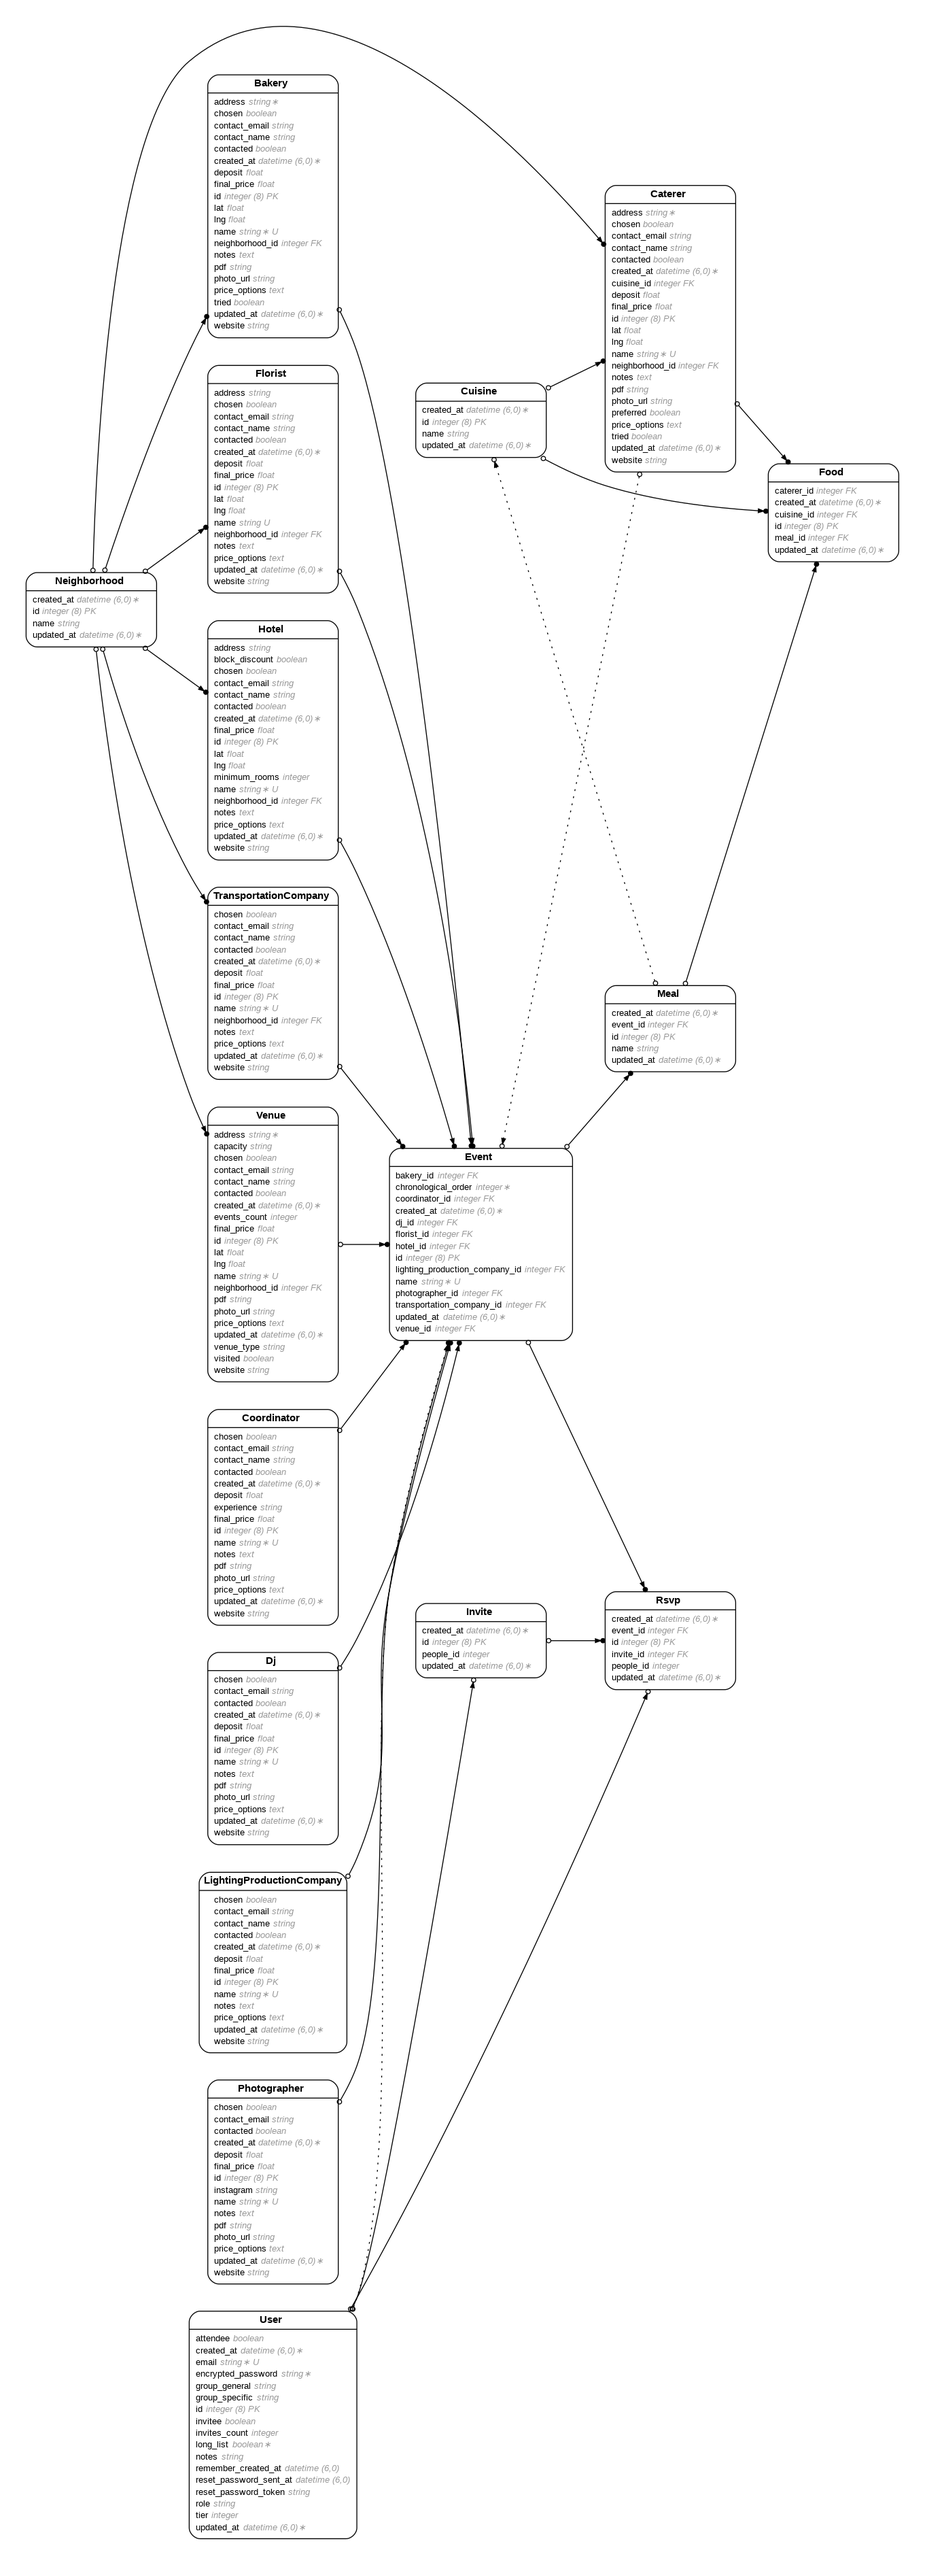
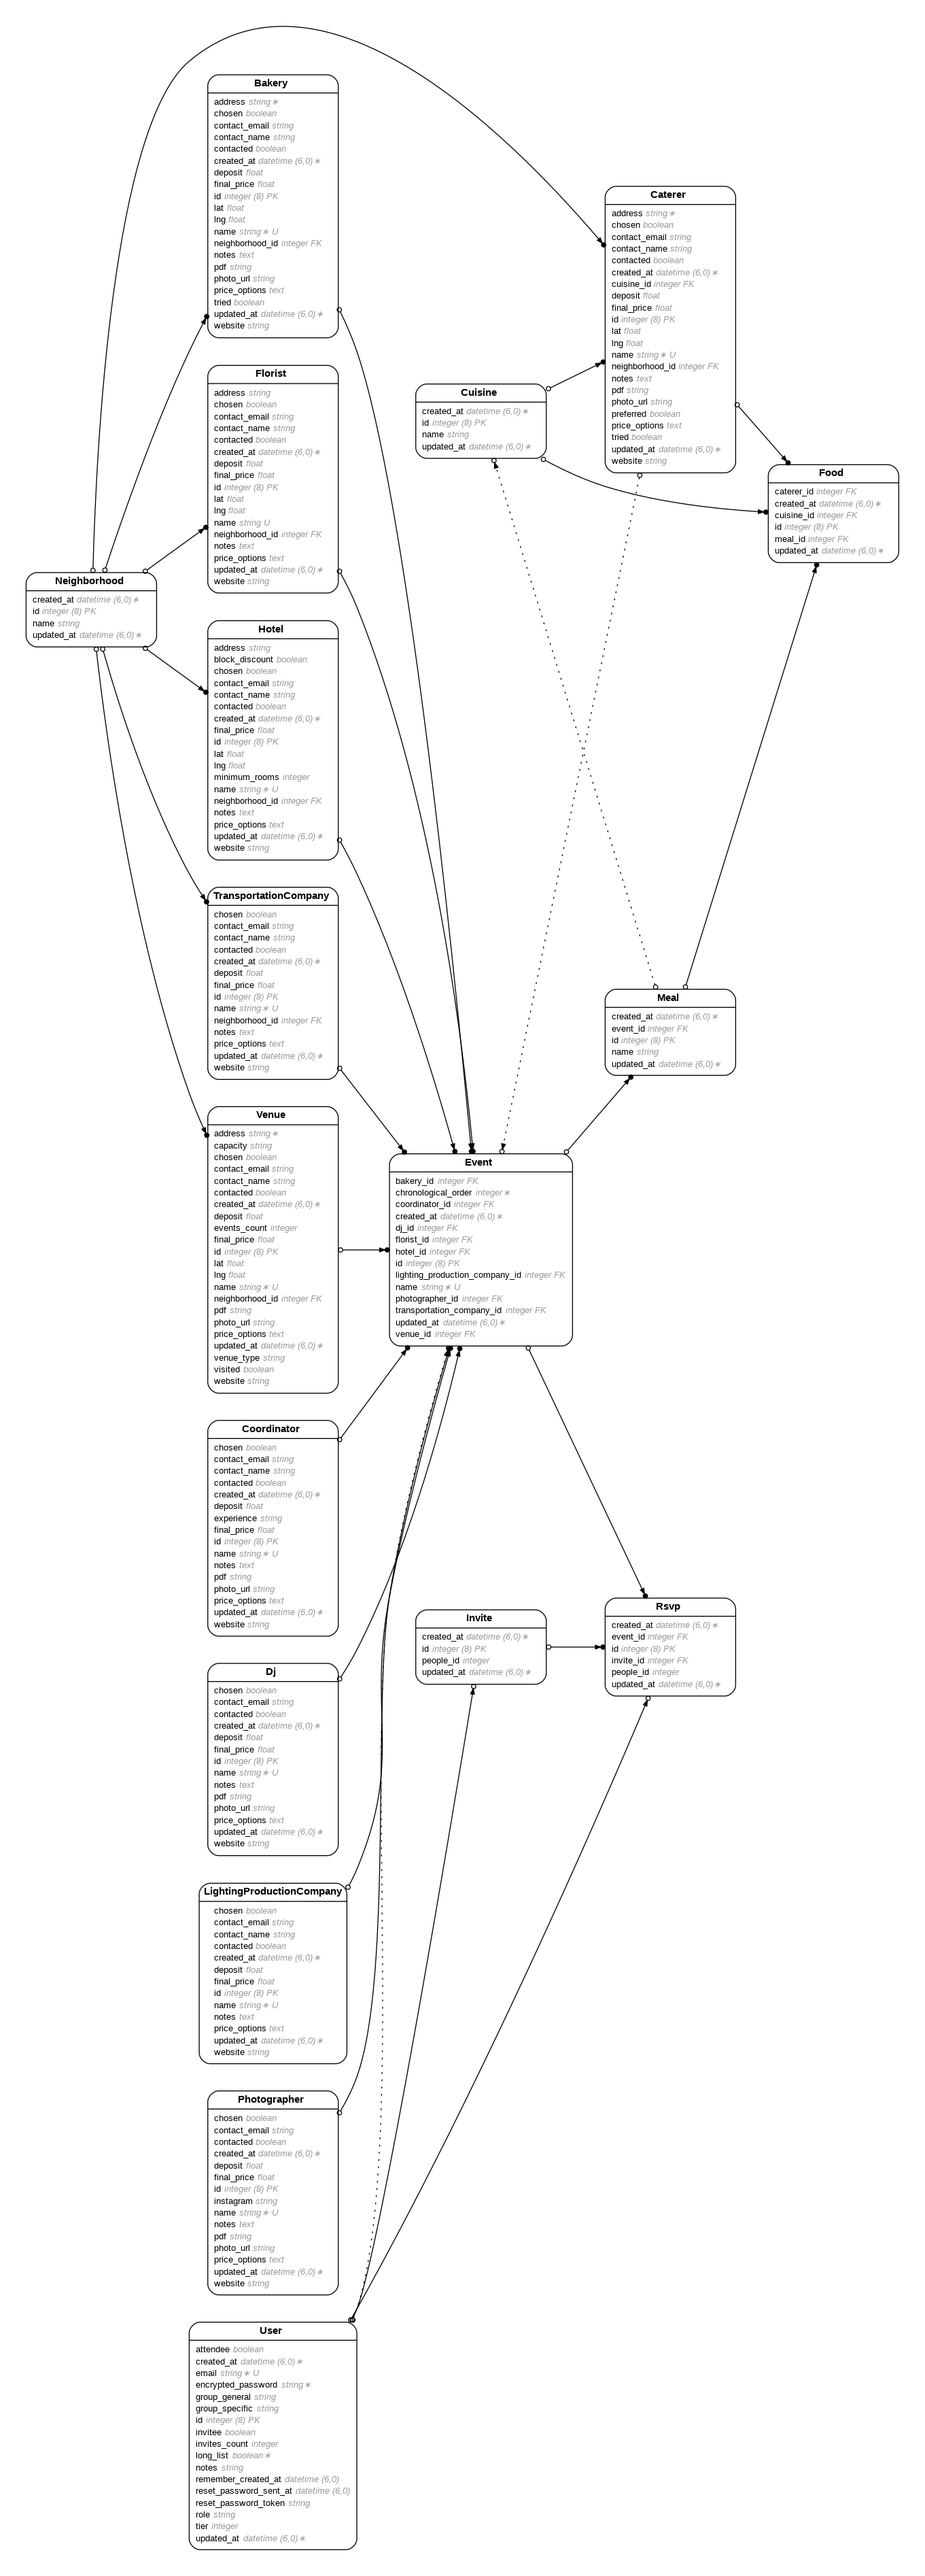
Update Venue controller, index, and show; add deposit

diff --git a/app/controllers/venues_controller.rb b/app/controllers/venues_controller.rb
@@ -4,6 +4,8 @@ class VenuesController < ApplicationController
 
     @list_of_venues = matching_venues.order({ :created_at => :desc })
 
+    @list_of_neighborhoods = Neighborhood.all.order({ :name => :desc })
+
     render({ :template => "venues/index" })
   end
 
@@ -14,6 +16,10 @@ class VenuesController < ApplicationController
 
     @the_venue = matching_venues.at(0)
 
+    @list_of_neighborhoods = Neighborhood.all.order({ :name => :desc })
+
+    @the_venue_neighborhood = Neighborhood.where({ :id => @the_venue.neighborhood_id }).at(0)
+
     render({ :template => "venues/show" })
   end
 
@@ -23,32 +29,37 @@ class VenuesController < ApplicationController
     the_venue.address = params.fetch("query_address")
 
         #lat & lng
+        if the_venue.address != ""
+          maps_url = "https://maps.googleapis.com/maps/api/geocode/json?address=" + the_venue.address + "&key=" + ENV.fetch("GMAPS_KEY")
 
-        maps_url = "https://maps.googleapis.com/maps/api/geocode/json?address=" + the_venue.address + "&key=" + ENV.fetch("GMAPS_KEY")
+          resp = HTTP.get(maps_url)
+          raw_response = resp.to_s
+          parsed_response = JSON.parse(raw_response)
+    
+          results = parsed_response.fetch("results")
+          first_result = results.at(0)
+          geo = first_result.fetch("geometry")
+          loc = geo.fetch("location")
+    
+          the_venue.lat = loc.fetch("lat")
+          the_venue.lng = loc.fetch("lng")
+        end
 
-        resp = HTTP.get(maps_url)
-        raw_response = resp.to_s
-        parsed_response = JSON.parse(raw_response)
-  
-        results = parsed_response.fetch("results")
-        first_result = results.at(0)
-        geo = first_result.fetch("geometry")
-        loc = geo.fetch("location")
-  
-        the_venue.lat = loc.fetch("lat")
-        the_venue.lng = loc.fetch("lng")
+    neighborhood_name = params.fetch("query_neighborhood_name")
+    the_venue.neighborhood_id = Neighborhood.where({ :name => neighborhood_name }).at(0).id
 
-    the_venue.contact_name = params.fetch("query_contact_name")
-    the_venue.neighborhood_id = params.fetch("query_neighborhood_id")
     the_venue.capacity = params.fetch("query_capacity")
     the_venue.venue_type = params.fetch("query_venue_type")
-    the_venue.price_options = params.fetch("query_price_options")
     the_venue.website = params.fetch("query_website")
-    the_venue.photo_url = params.fetch("query_photo_url")
-    the_venue.pdf = params.fetch("query_pdf")
+    the_venue.contact_name = params.fetch("query_contact_name")
+    the_venue.contact_email = params.fetch("query_contact_email")
     the_venue.contacted = params.fetch("query_contacted", false)
     the_venue.visited = params.fetch("query_visited", false)
     the_venue.chosen = params.fetch("query_chosen", false)
+    the_venue.price_options = params.fetch("query_price_options")
+    the_venue.photo_url = params.fetch("query_photo_url")
+    the_venue.pdf = params.fetch("query_pdf")
+    the_venue.deposit = params.fetch("query_deposit")
     the_venue.final_price = params.fetch("query_final_price")
     the_venue.events_count = params.fetch("query_events_count")
 
@@ -66,19 +77,39 @@ class VenuesController < ApplicationController
 
     the_venue.name = params.fetch("query_name")
     the_venue.address = params.fetch("query_address")
-    the_venue.lat = params.fetch("query_lat")
-    the_venue.lng = params.fetch("query_lng")
-    the_venue.contact_name = params.fetch("query_contact_name")
-    the_venue.neighborhood_id = params.fetch("query_neighborhood_id")
+
+        #lat & lng
+        if the_venue.address != ""
+          maps_url = "https://maps.googleapis.com/maps/api/geocode/json?address=" + the_venue.address + "&key=" + ENV.fetch("GMAPS_KEY")
+
+          resp = HTTP.get(maps_url)
+          raw_response = resp.to_s
+          parsed_response = JSON.parse(raw_response)
+    
+          results = parsed_response.fetch("results")
+          first_result = results.at(0)
+          geo = first_result.fetch("geometry")
+          loc = geo.fetch("location")
+    
+          the_venue.lat = loc.fetch("lat")
+          the_venue.lng = loc.fetch("lng")
+        end
+
+    neighborhood_name = params.fetch("query_neighborhood_name")
+    the_venue.neighborhood_id = Neighborhood.where({ :name => neighborhood_name }).at(0).id
+
     the_venue.capacity = params.fetch("query_capacity")
     the_venue.venue_type = params.fetch("query_venue_type")
-    the_venue.price_options = params.fetch("query_price_options")
     the_venue.website = params.fetch("query_website")
-    the_venue.photo_url = params.fetch("query_photo_url")
-    the_venue.pdf = params.fetch("query_pdf")
+    the_venue.contact_name = params.fetch("query_contact_name")
+    the_venue.contact_email = params.fetch("query_contact_email")
     the_venue.contacted = params.fetch("query_contacted", false)
     the_venue.visited = params.fetch("query_visited", false)
     the_venue.chosen = params.fetch("query_chosen", false)
+    the_venue.price_options = params.fetch("query_price_options")
+    the_venue.photo_url = params.fetch("query_photo_url")
+    the_venue.pdf = params.fetch("query_pdf")
+    the_venue.deposit = params.fetch("query_deposit")
     the_venue.final_price = params.fetch("query_final_price")
     the_venue.events_count = params.fetch("query_events_count")
 

diff --git a/db/schema.rb b/db/schema.rb
@@ -10,7 +10,7 @@
 #
 # It's strongly recommended that you check this file into your version control system.
 
-ActiveRecord::Schema[7.1].define(version: 2024_12_05_073343) do
+ActiveRecord::Schema[7.1].define(version: 2024_12_05_074142) do
   # These are extensions that must be enabled in order to support this database
   enable_extension "plpgsql"
 
@@ -280,6 +280,7 @@ ActiveRecord::Schema[7.1].define(version: 2024_12_05_073343) do
     t.datetime "created_at", null: false
     t.datetime "updated_at", null: false
     t.string "contact_email"
+    t.float "deposit"
   end
 
 end

diff --git a/app/models/venue.rb b/app/models/venue.rb
@@ -9,6 +9,7 @@
 #  contact_email   :string
 #  contact_name    :string
 #  contacted       :boolean
+#  deposit         :float
 #  events_count    :integer
 #  final_price     :float
 #  lat             :float

diff --git a/db/migrate/20241205074142_add_deposit_to_venues.rb b/db/migrate/20241205074142_add_deposit_to_venues.rb
@@ -1,0 +1,5 @@
+class AddDepositToVenues < ActiveRecord::Migration[7.1]
+  def change
+    add_column :venues, :deposit, :float
+  end
+end
